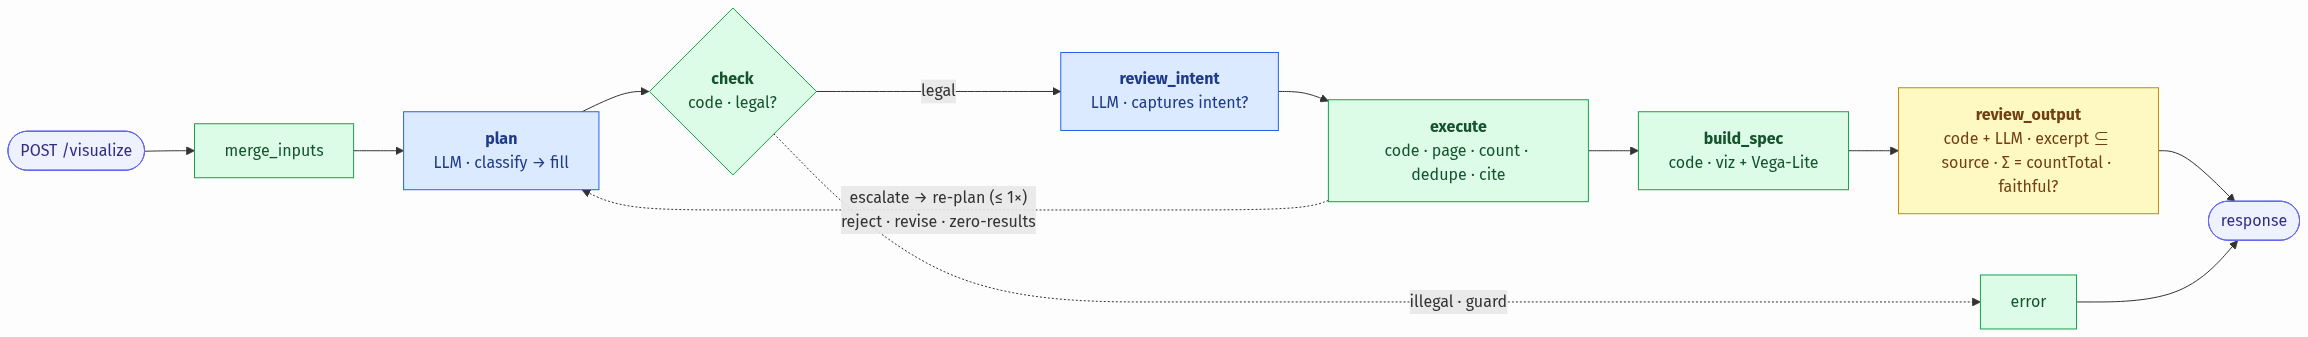
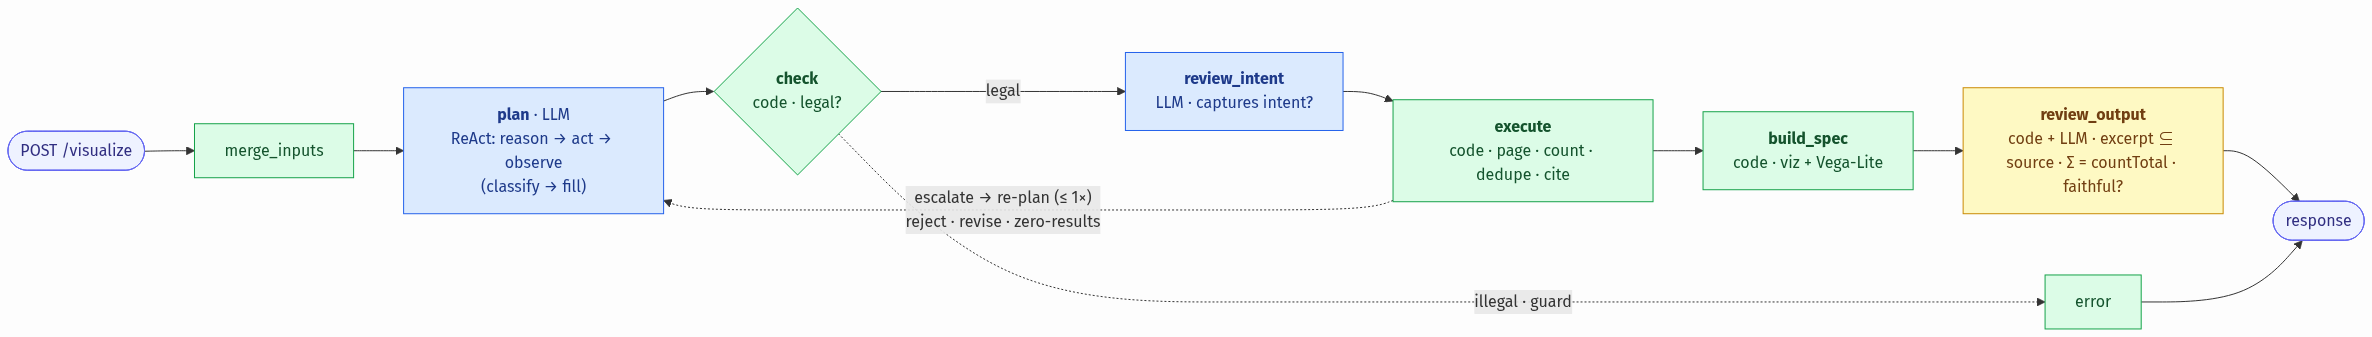
Add live demo (GitHub Pages) + pipeline diagram; refine viewer
- index.html + .nojekyll so the Pages root opens the citation viewer
- pipeline diagram (docs/pipeline.png/svg) showing the ReAct planner, one
  bounded escalation re-plan, and the error path; embedded + linked in the README
- README: live-demo link
- viewer: network edge panel now separates the two endpoint citations from the
  contributing-trials list (no more misleading 'N of weight truncated'), plus
  back-navigation from an edge to its node

diff --git a/demo/viewer.html b/demo/viewer.html
@@ -247,6 +247,13 @@
   .toks{ display:flex; gap:5px; flex-wrap:wrap; margin-top:6px; }
   .tok{ font-family:var(--mono); font-size:10.5px; padding:1px 6px; border-radius:5px; background:var(--accent-weak); color:var(--accent-ink); }
   li.cite-more{ padding:9px 12px; font-size:12px; font-style:italic; color:var(--faint); }
+  .cite-back{ display:inline-flex; align-items:center; gap:5px; margin-bottom:9px; padding:0;
+    background:none; border:none; font-family:inherit; font-size:12px; color:var(--link); cursor:pointer; width:max-content; }
+  .cite-back:hover{ text-decoration:underline; }
+  .cite-section + .cite-section{ margin-top:14px; padding-top:12px; border-top:1px solid var(--border); }
+  .cite-sec-h{ font-size:11.5px; font-weight:700; color:var(--muted); margin:2px 8px 5px; line-height:1.35; }
+  .cite-sec-h .trunc{ color:var(--warn); font-weight:600; margin-left:6px; }
+  li.cite.trial{ padding:8px 10px; }
   .edgelist{ list-style:none; margin:4px 0 0; padding:0; }
   .edgelist li{ display:flex; align-items:center; justify-content:space-between; gap:10px; padding:8px 10px; border-radius:8px; cursor:pointer; font-size:12.5px; }
   .edgelist li:hover{ background:var(--surface-2); }
@@ -419,6 +426,7 @@ function onFiles(e){
  *  Render — meta strip + chart dispatch
  * ===================================================================== */
 let currentResp = null;
+let netNav = null; // network nav: last NODE panel shown, so the EDGE panel can offer "← Back"
 
 function render(){
   const ds = state.datasets[state.current];
@@ -948,6 +956,7 @@ function clarificationCard(resp){
  *  CITATION DRILL-DOWN PANEL  — the point of the whole demo
  * ===================================================================== */
 function clearPanel(){
+  netNav = null;
   $("citepanel").innerHTML =
     `<div class="cite-head">
        <div class="eyebrow"><span class="dot"></span>Deep citations</div>
@@ -1014,18 +1023,62 @@ function panelForDatum(d){
 }
 
 function panelForEdge(e, nodes){
-  const cites = e.citations || [];
-  const real = cites.filter(c => c && c.nct_id);
-  const truncated = real.length < (e.weight || 0);
-  renderPanel({
-    title: labelFor(nodes, e.source) + "  ↔  " + labelFor(nodes, e.target),
-    sub: `co-occur in <b>${fmt(e.weight)}</b> trials · edge cites one citation per endpoint field_path`,
-    contributing: e.weight, shown: real.length, truncated,
-    listHtml: cites.length ? citeListHtml(cites) : `<div class="cite-empty">No citations on this edge.</div>`
-  });
+  // An edge carries EXACTLY 2 citations by design — one excerpt per endpoint drug's
+  // field_path (that is HOW the co-occurrence edge is formed), NOT a truncated sample.
+  // edge.weight is a different quantity: the number of CONTRIBUTING TRIALS (source_ids).
+  const real = (e.citations || []).filter(c => c && c.nct_id);
+  const weight = e.weight || 0;
+  const sids = e.source_ids || [];
+
+  const backBtn = netNav
+    ? `<button class="cite-back" id="cite-back">← Back to ${esc(netNav.node.label)}</button>` : "";
+
+  const endpointsHtml = real.length
+    ? citeListHtml(real)
+    : `<div class="cite-empty">No endpoint citations on this edge.</div>`;
+
+  const trialsTrunc = (sids.length < weight)
+    ? `<span class="trunc">showing ${fmt(sids.length)} of ${fmt(weight)}</span>` : "";
+  const trialsHtml = sids.length
+    ? `<ul class="cites">${sids.map(id => {
+         const url = "https://clinicaltrials.gov/study/" + encodeURIComponent(id);
+         return `<li class="cite trial"><a class="nct" href="${url}" target="_blank" rel="noopener noreferrer">${esc(id)} <span class="ext">↗</span></a></li>`;
+       }).join("")}</ul>`
+    : `<div class="cite-empty">No contributing trial ids on this edge.</div>`;
+
+  $("citepanel").innerHTML =
+    `<div class="cite-head">
+       ${backBtn}
+       <div class="eyebrow"><span class="dot"></span>Deep citations</div>
+       <h3>${esc(labelFor(nodes, e.source))} ↔ ${esc(labelFor(nodes, e.target))}</h3>
+       <div class="cite-sub">co-occur in <b>${fmt(weight)}</b> trials</div>
+     </div>
+     <div class="cite-body">
+       <div class="cite-section">
+         <div class="cite-sec-h">Edge endpoints — ${real.length} citations, one per drug (how the edge is formed)</div>
+         ${endpointsHtml}
+       </div>
+       <div class="cite-section">
+         <div class="cite-sec-h">Contributing trials (${fmt(weight)}) ${trialsTrunc}</div>
+         ${trialsHtml}
+       </div>
+     </div>`;
+
+  const back = document.getElementById("cite-back");
+  if (back) back.addEventListener("click", backToNode);
+}
+
+/* Return from an EDGE panel to the NODE panel that led here (its co-occurrence
+   link list), re-highlighting that node in the graph. */
+function backToNode(){
+  if (!netNav) return;
+  const svg = $("chart").querySelector("svg");
+  if (svg) highlightNode(svg, netNav.node.id, netNav.eidxs);
+  panelForNode(netNav.node, netNav.eidxs, netNav.edges, netNav.nodes);
 }
 
 function panelForNode(node, eidxs, edges, nodes){
+  netNav = { node, eidxs, edges, nodes }; // remember for the EDGE panel's "← Back"
   // nodes carry no citations directly; surface incident edges (each drills to its citations)
   const rows = eidxs.map(i => edges[i])
     .sort((a, b) => (b.weight || 0) - (a.weight || 0))

diff --git a/index.html b/index.html
@@ -1,0 +1,16 @@
+<!doctype html>
+<html lang="en">
+<head>
+<meta charset="utf-8">
+<title>ClinicalTrials.gov Query-to-Visualization Agent — Demo</title>
+<meta name="viewport" content="width=device-width, initial-scale=1">
+<meta http-equiv="refresh" content="0; url=./demo/viewer.html">
+<link rel="canonical" href="./demo/viewer.html">
+<style>body{font:16px/1.5 system-ui,sans-serif;max-width:40rem;margin:4rem auto;padding:0 1rem;color:#0f172a}a{color:#2563eb}</style>
+</head>
+<body>
+<h1>ClinicalTrials.gov Query-to-Visualization Agent</h1>
+<p>Opening the <a href="./demo/viewer.html">citation viewer demo</a> — 15 real example runs, each with its query, chart/network, and clickable deep citations.</p>
+<p>If it doesn't redirect: <a href="./demo/viewer.html">open the viewer</a> · <a href="https://github.com/nguiaSoren/cheiron-clinicaltrials-agent">source on GitHub</a></p>
+</body>
+</html>

diff --git a/README.md b/README.md
@@ -5,6 +5,11 @@ fields) into a **structured visualization specification** sourced from the
 [ClinicalTrials.gov Data API v2](https://clinicaltrials.gov/data-api/api), with **deep citations**
 tying every datum back to its `nct_id` and an exact field excerpt.
 
+**▶ Live demo (no install):** **<https://nguiasoren.github.io/cheiron-clinicaltrials-agent/>** — the
+citation viewer with all 15 example runs; each shows its natural-language query, its chart or network
+graph, and every datum's citations clickable to the source trials on clinicaltrials.gov. To query the
+engine yourself, clone and run `uvicorn` (see [Quickstart](#quickstart)).
+
 > **The governing invariant:** *the LLM decides **what** to compute; deterministic tools compute
 > it — the model never emits a number.*
 
@@ -41,7 +46,7 @@ Planner(LLM, ReAct) → Plan Checker(CODE) → Intent Reviewer(LLM) → Execute(
 ```mermaid
 flowchart LR
   IN([POST /visualize]):::io --> MI[merge_inputs]:::code
-  MI --> PL["<b>plan</b><br/>LLM · classify → fill"]:::llm
+  MI --> PL["<b>plan</b> · LLM<br/>ReAct: reason → act → observe<br/>(classify → fill)"]:::llm
   PL --> CK{"<b>check</b><br/>code · legal?"}:::code
   CK -->|legal| RI["<b>review_intent</b><br/>LLM · captures intent?"]:::llm
   RI --> EX["<b>execute</b><br/>code · page · count · dedupe · cite"]:::code